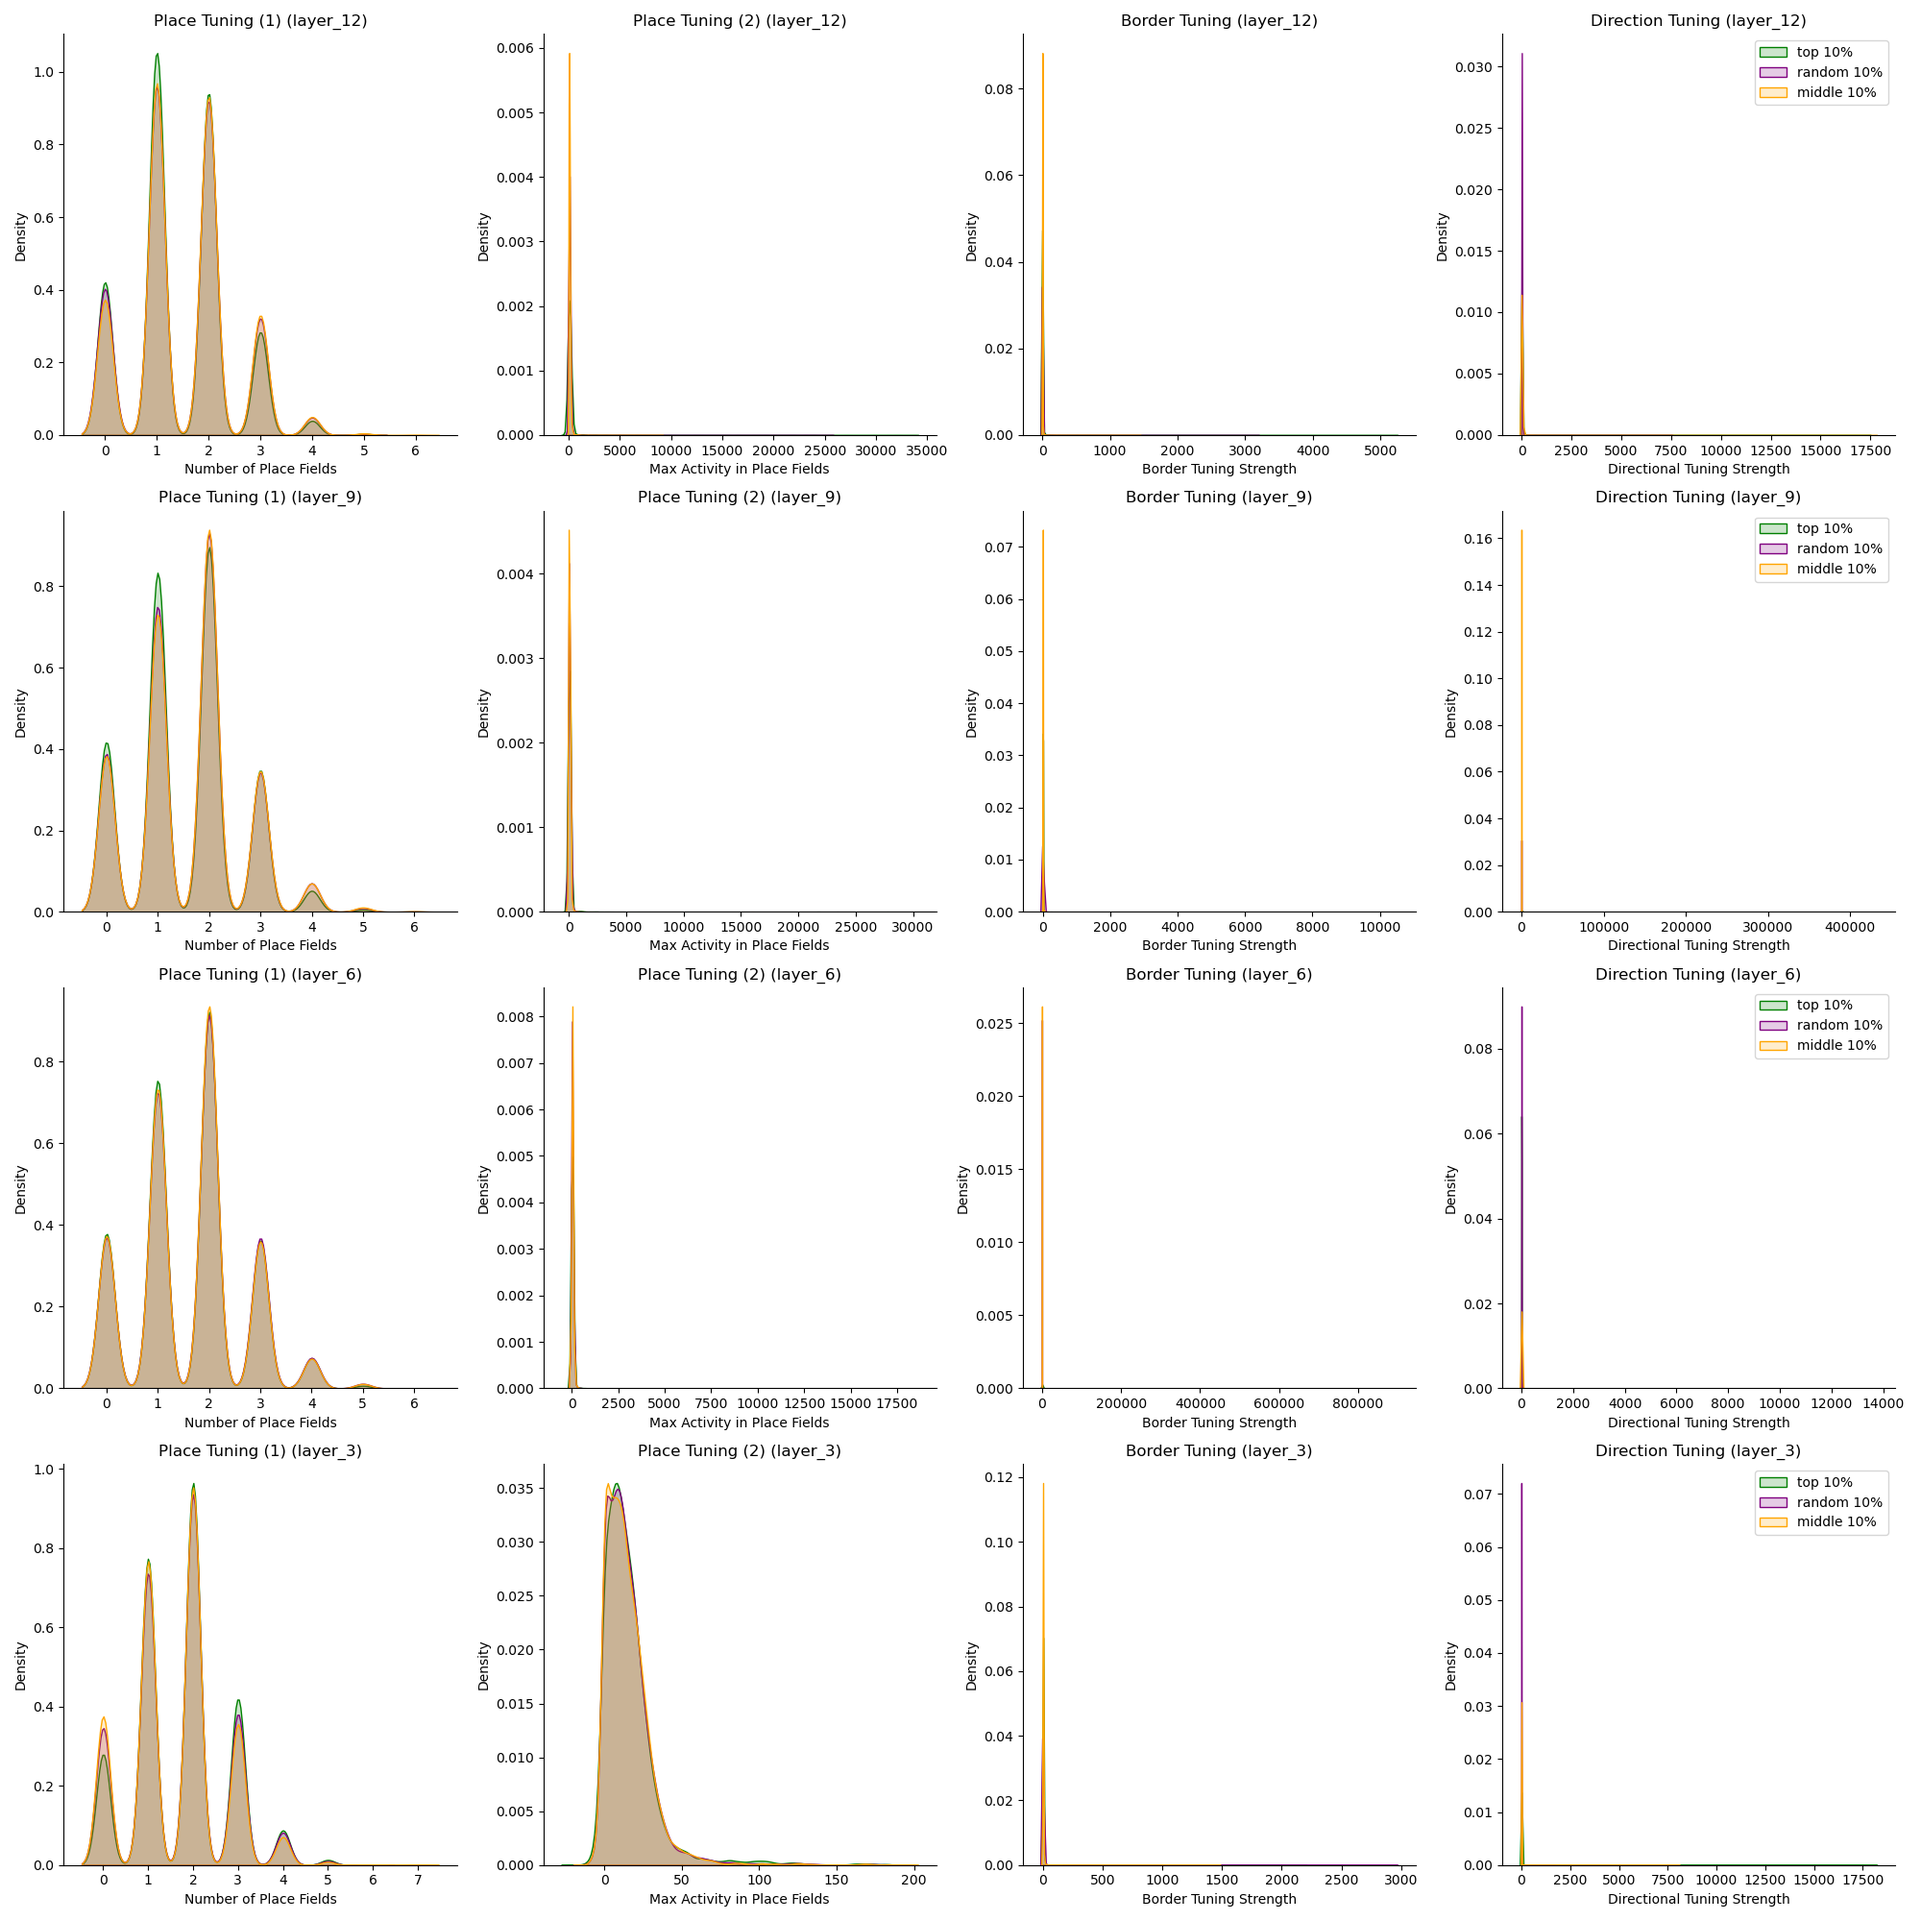
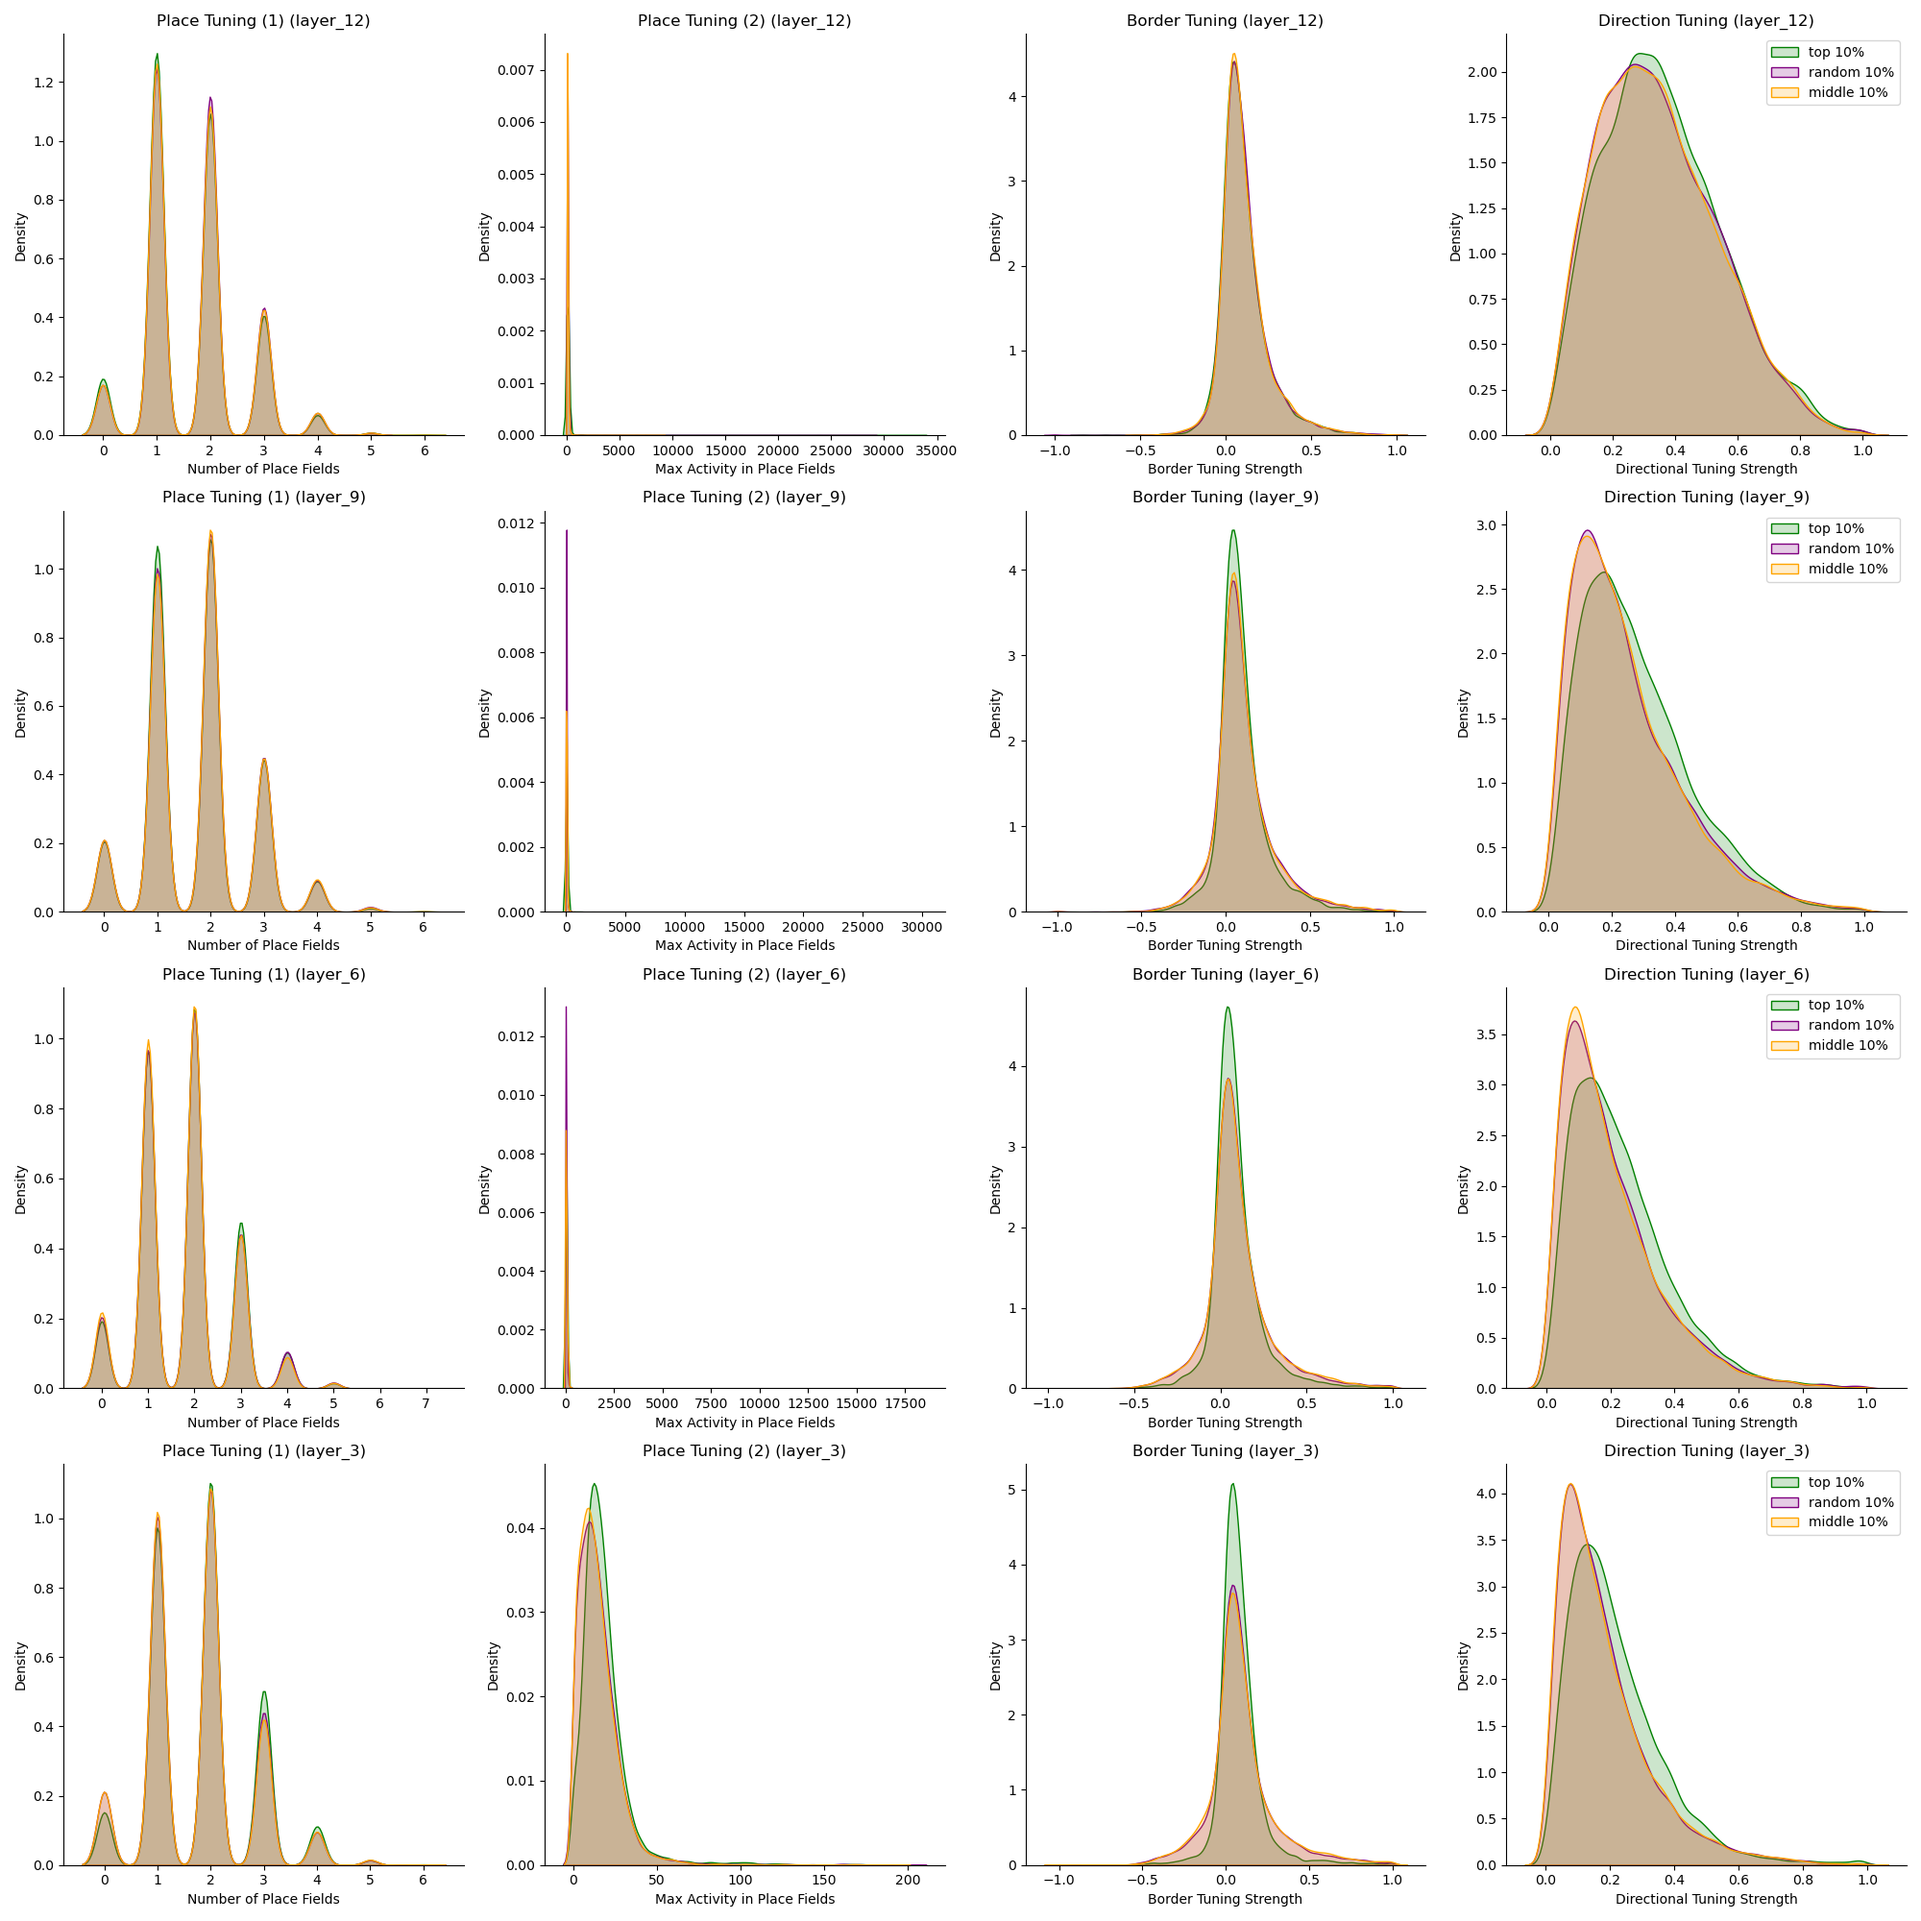
update fig: replot vit unit_chart against coef w updated unit_chart_by_coef which applies manual relu

diff --git a/figures_paper.py b/figures_paper.py
@@ -984,8 +984,8 @@ def lesion_by_unit_chart_each_model_across_layers_and_lr():
 
 
 if __name__ == '__main__':
-    decoding_each_model_across_layers_and_sr()
+    # decoding_each_model_across_layers_and_sr()
     # decoding_all_models_one_layer_one_sr()
-    lesion_by_coef_each_model_across_layers_and_lr()
-    lesion_by_unit_chart_each_model_across_layers_and_lr()
-    # unit_chart_type_against_coef_each_model_across_layers()
+    # lesion_by_coef_each_model_across_layers_and_lr()
+    # lesion_by_unit_chart_each_model_across_layers_and_lr()
+    unit_chart_type_against_coef_each_model_across_layers()
